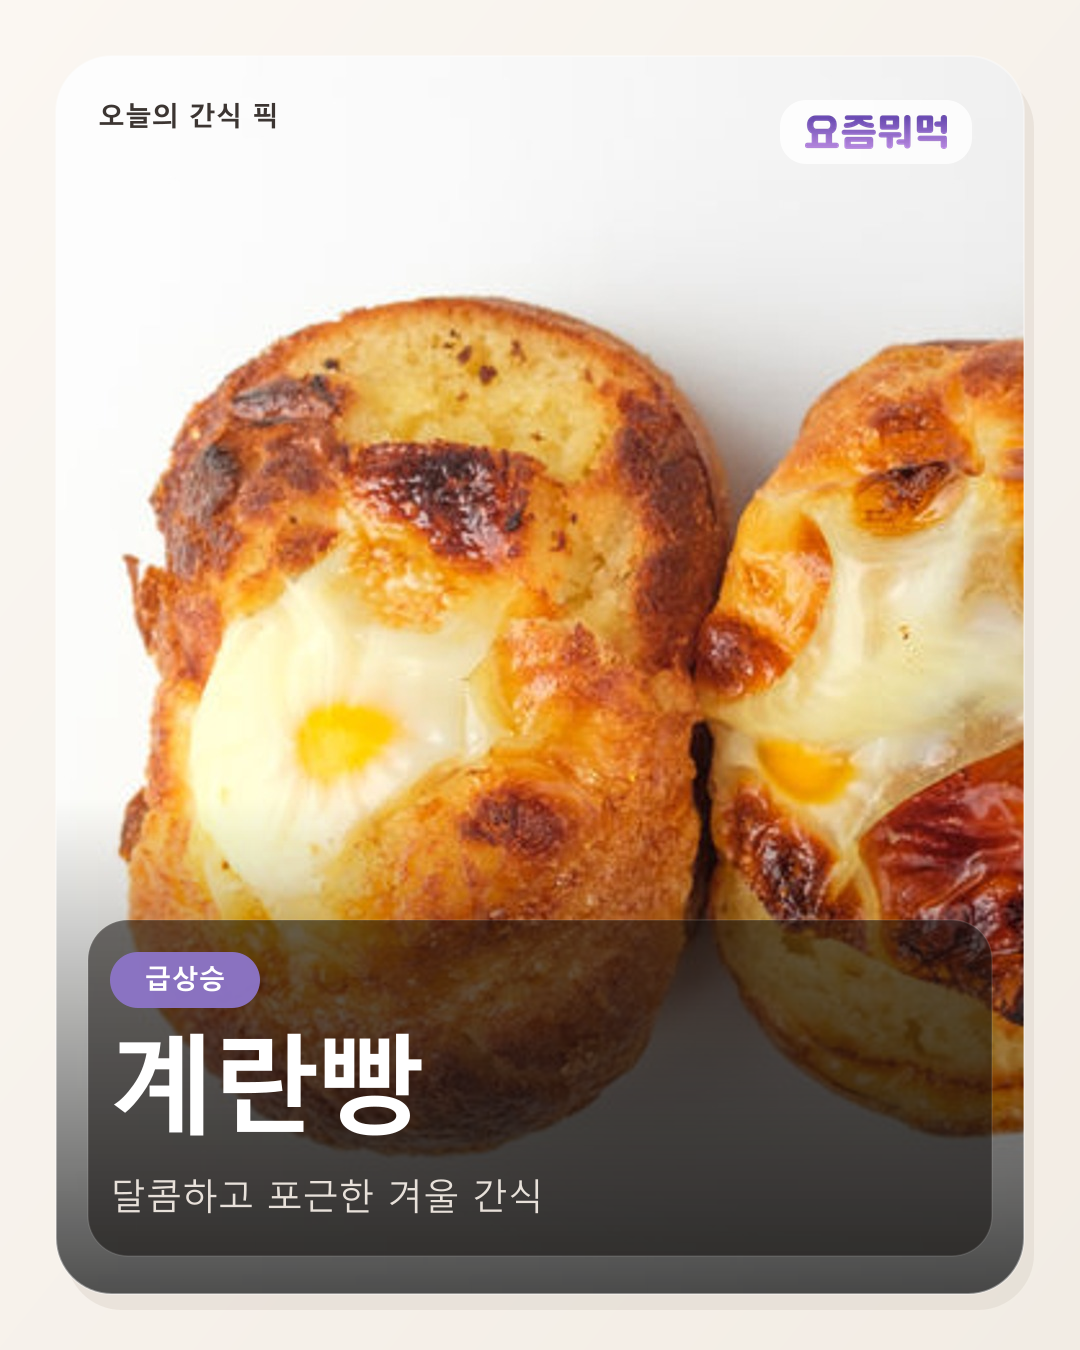
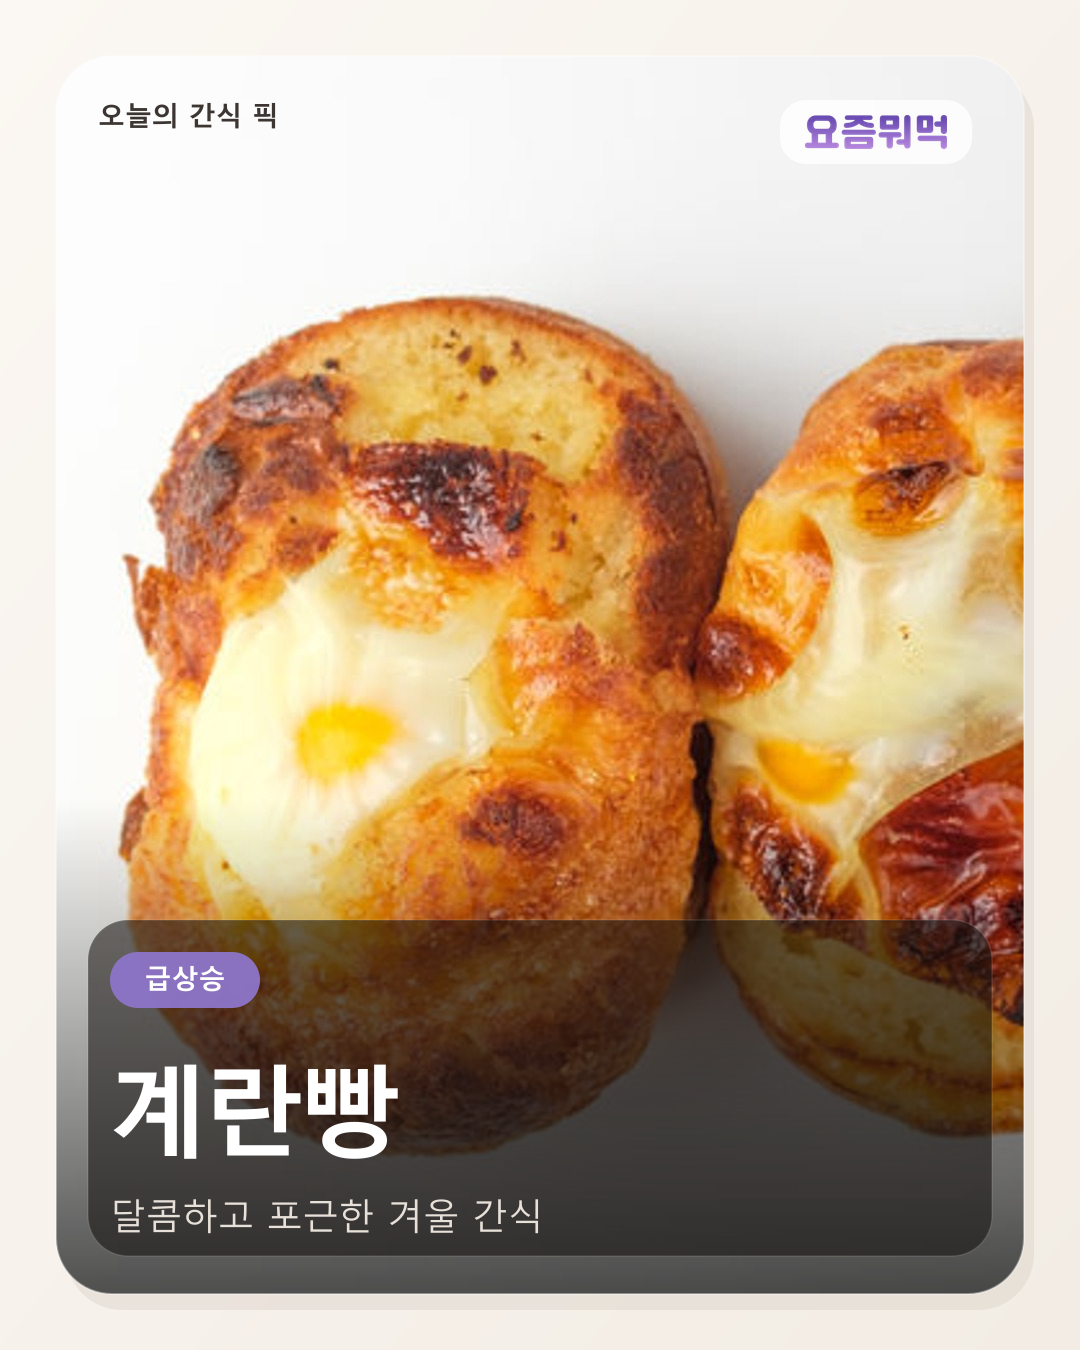
인스타 피드 이미지 검수와 카드 레이아웃 조정

Changed region(s): [[0.0917, 0.7467, 0.4889, 0.9333]]

diff --git a/crawler/ai_reviewer.py b/crawler/ai_reviewer.py
@@ -51,6 +51,16 @@ class TrendReviewResult:
     model: str | None = None
 
 
+@dataclass(slots=True)
+class InstagramImageReviewResult:
+    verdict: str
+    confidence: float
+    reason: str
+    detected_subject: str | None = None
+    concerns: list[str] | None = None
+    model: str | None = None
+
+
 def is_ai_review_enabled() -> bool:
     return bool(
         settings.AI_REVIEW_ENABLED
@@ -143,6 +153,29 @@ def _extract_message_content(data: dict[str, Any]) -> str:
     return str(content)
 
 
+def _normalize_short_text(value: Any, max_length: int = 160) -> str | None:
+    text = " ".join(str(value or "").split())
+    if not text:
+        return None
+    if len(text) > max_length:
+        text = f"{text[: max_length - 3].rstrip()}..."
+    return text
+
+
+def _normalize_concerns(value: Any) -> list[str]:
+    if not isinstance(value, list):
+        return []
+
+    concerns: list[str] = []
+    for item in value:
+        text = _normalize_short_text(item, max_length=80)
+        if text:
+            concerns.append(text)
+        if len(concerns) >= 4:
+            break
+    return concerns
+
+
 def _coerce_result(
     raw: dict[str, Any],
     *,
@@ -176,10 +209,10 @@ def _coerce_result(
     )
 
 
-async def _request_batch_review(
+async def _request_json_review(
     *,
-    system_prompt: str,
-    payload: dict[str, Any],
+    messages: list[dict[str, Any]],
+    max_tokens: int = 1200,
 ) -> dict[str, Any] | list[dict[str, Any]]:
     if not is_ai_review_enabled():
         raise AIReviewError("AI review is disabled or missing credentials")
@@ -187,14 +220,8 @@ async def _request_batch_review(
     body = {
         "model": settings.AI_REVIEW_MODEL,
         "temperature": 0.1,
-        "max_tokens": 1200,
-        "messages": [
-            {"role": "system", "content": system_prompt},
-            {
-                "role": "user",
-                "content": json.dumps(payload, ensure_ascii=False),
-            },
-        ],
+        "max_tokens": max_tokens,
+        "messages": messages,
     }
 
     try:
@@ -213,6 +240,22 @@ async def _request_batch_review(
         raise AIReviewError(f"AI review request failed: {exc}") from exc
 
     return _extract_json_blob(_extract_message_content(response.json()))
+
+
+async def _request_batch_review(
+    *,
+    system_prompt: str,
+    payload: dict[str, Any],
+) -> dict[str, Any] | list[dict[str, Any]]:
+    return await _request_json_review(
+        messages=[
+            {"role": "system", "content": system_prompt},
+            {
+                "role": "user",
+                "content": json.dumps(payload, ensure_ascii=False),
+            },
+        ],
+    )
 
 
 def _extract_results(raw: dict[str, Any] | list[dict[str, Any]]) -> list[dict[str, Any]]:
@@ -330,3 +373,94 @@ async def review_discovered_keywords(
     result_map = _coerce_result_map(raw, payloads=payloads)
     logger.info("AI discovery batch reviewed %s candidates", len(payloads))
     return result_map
+
+
+def _coerce_instagram_image_result(
+    raw: dict[str, Any] | list[dict[str, Any]],
+) -> InstagramImageReviewResult:
+    if isinstance(raw, list):
+        raise AIReviewError("Instagram image review must return a JSON object")
+
+    payload = raw.get("result") if isinstance(raw.get("result"), dict) else raw
+
+    try:
+        confidence = float(payload.get("confidence", 0))
+    except (TypeError, ValueError):
+        confidence = 0.0
+    confidence = max(0.0, min(confidence, 1.0))
+
+    reason = _normalize_short_text(payload.get("reason"), max_length=200) or "reason missing"
+
+    return InstagramImageReviewResult(
+        verdict=_normalize_verdict(payload.get("verdict")),
+        confidence=confidence,
+        reason=reason,
+        detected_subject=_normalize_short_text(
+            payload.get("detected_subject"),
+            max_length=120,
+        ),
+        concerns=_normalize_concerns(payload.get("concerns")),
+        model=settings.AI_REVIEW_MODEL,
+    )
+
+
+async def review_instagram_post_image(
+    *,
+    image_url: str,
+    trend_name: str,
+    category: str | None = None,
+    caption: str | None = None,
+) -> InstagramImageReviewResult:
+    if not image_url.strip():
+        raise AIReviewError("Instagram image review requires a public image URL")
+
+    system_prompt = (
+        "You are reviewing a single Instagram feed image for a Korean viral food trend service. "
+        "Approve only if the image is suitable for publishing as a food trend post about the named menu. "
+        "The main subject should clearly show the food or drink itself, a plated serving, packaged product, "
+        "or another close and trustworthy visual of that exact menu. "
+        "Reject storefront exteriors, street scenes, unrelated interiors, people-focused photos, posters, "
+        "menu boards, screenshots, collages, heavy watermarks, blurry images, or images where the named food "
+        "is not visible enough. Use review when the image might be related but is too ambiguous for automatic posting. "
+        "Be strict and prefer review over accept when uncertain. "
+        "Respond with JSON only using the shape "
+        '{"verdict":"accept|reject|review","confidence":0.0,"reason":"...","detected_subject":"...","concerns":["..."]}.'
+    )
+
+    review_context = {
+        "trend_name": trend_name,
+        "category": category or "",
+        "caption": caption or "",
+    }
+    raw = await _request_json_review(
+        messages=[
+            {"role": "system", "content": system_prompt},
+            {
+                "role": "user",
+                "content": [
+                    {
+                        "type": "text",
+                        "text": (
+                            "Review this Instagram feed image before auto-publishing.\n"
+                            f"{json.dumps(review_context, ensure_ascii=False)}"
+                        ),
+                    },
+                    {
+                        "type": "image_url",
+                        "image_url": {
+                            "url": image_url,
+                        },
+                    },
+                ],
+            },
+        ],
+        max_tokens=400,
+    )
+    result = _coerce_instagram_image_result(raw)
+    logger.info(
+        "AI Instagram image reviewed %s as %s (confidence=%.2f)",
+        trend_name,
+        result.verdict,
+        result.confidence,
+    )
+    return result

diff --git a/crawler/instagram_publisher.py b/crawler/instagram_publisher.py
@@ -13,6 +13,11 @@ from zoneinfo import ZoneInfo
 
 import httpx
 
+from ai_reviewer import (
+    InstagramImageReviewResult,
+    is_ai_review_enabled,
+    review_instagram_post_image,
+)
 from config import settings
 from database import (
     create_instagram_feed_run,
@@ -99,6 +104,43 @@ def _build_render_subtitle(trend: dict[str, Any]) -> str:
 
 def _build_badge_label(status: str | None) -> str:
     return "인기" if status == "active" else "급상승"
+
+
+def _is_instagram_image_review_accepted(review: InstagramImageReviewResult) -> bool:
+    return (
+        review.verdict == "accept"
+        and review.confidence >= settings.INSTAGRAM_IMAGE_REVIEW_MIN_CONFIDENCE
+    )
+
+
+def _build_instagram_image_review_message(review: InstagramImageReviewResult) -> str:
+    parts = [
+        f"ai_image_review={review.verdict}",
+        f"confidence={review.confidence:.2f}",
+    ]
+    if review.detected_subject:
+        parts.append(f"subject={review.detected_subject}")
+    if review.reason:
+        parts.append(f"reason={review.reason}")
+    if review.concerns:
+        parts.append(f"concerns={', '.join(review.concerns)}")
+    return " | ".join(parts)
+
+
+def _serialize_image_review(
+    review: InstagramImageReviewResult | None,
+) -> dict[str, Any] | None:
+    if review is None:
+        return None
+
+    return {
+        "verdict": review.verdict,
+        "confidence": review.confidence,
+        "reason": review.reason,
+        "detected_subject": review.detected_subject,
+        "concerns": review.concerns or [],
+        "model": review.model,
+    }
 
 
 def _serialize_candidate(row: dict[str, Any]) -> dict[str, Any]:
@@ -327,6 +369,10 @@ def _ensure_instagram_ready() -> None:
         raise RuntimeError("INSTAGRAM_IG_USER_ID is required")
     if not settings.INSTAGRAM_ACCESS_TOKEN.strip():
         raise RuntimeError("INSTAGRAM_ACCESS_TOKEN is required")
+    if settings.INSTAGRAM_IMAGE_REVIEW_ENABLED and not is_ai_review_enabled():
+        raise RuntimeError(
+            "INSTAGRAM_IMAGE_REVIEW_ENABLED requires AI review credentials and model"
+        )
 
 
 async def publish_daily_instagram_feed(
@@ -347,6 +393,7 @@ async def publish_daily_instagram_feed(
             "candidate_count": len(candidates),
             "selected_scope": candidates[0]["status"] if candidates else None,
             "candidates": candidate_preview,
+            "image_review_enabled": settings.INSTAGRAM_IMAGE_REVIEW_ENABLED,
             "trigger": trigger,
         }
 
@@ -395,6 +442,7 @@ async def publish_daily_instagram_feed(
         errors: list[str] = []
         for candidate in candidates:
             caption = _build_caption(candidate)
+            image_review: InstagramImageReviewResult | None = None
             update_instagram_feed_run(
                 run_row["id"],
                 {
@@ -418,6 +466,29 @@ async def publish_daily_instagram_feed(
                     run_date,
                     candidate["name"],
                 )
+                if settings.INSTAGRAM_IMAGE_REVIEW_ENABLED:
+                    image_review = await review_instagram_post_image(
+                        image_url=final_image_url,
+                        trend_name=candidate["name"],
+                        category=candidate.get("category"),
+                        caption=caption,
+                    )
+                    if not _is_instagram_image_review_accepted(image_review):
+                        review_message = _build_instagram_image_review_message(image_review)
+                        logger.info(
+                            "Instagram image review blocked %s: %s",
+                            candidate.get("name"),
+                            review_message,
+                        )
+                        update_instagram_feed_run(
+                            run_row["id"],
+                            {
+                                "skip_reason": "ai_image_review_rejected",
+                                "error_message": review_message,
+                            },
+                        )
+                        errors.append(f"{candidate.get('name')}: {review_message}")
+                        continue
                 creation_id = await _create_media_container(final_image_url, caption)
                 await _wait_for_container_ready(creation_id)
                 media_id = await _publish_media_container(creation_id)
@@ -447,6 +518,8 @@ async def publish_daily_instagram_feed(
                     "final_image_url": final_image_url,
                     "instagram_creation_id": creation_id,
                     "instagram_media_id": media_id,
+                    "image_review": _serialize_image_review(image_review),
+                    "image_review_enabled": settings.INSTAGRAM_IMAGE_REVIEW_ENABLED,
                     "used_fallback_image": bool(render_metadata.get("usedFallback")),
                     "run": run_row,
                 }

diff --git a/crawler/config.py b/crawler/config.py
@@ -190,6 +190,16 @@ class Settings:
     AI_REVIEW_MIN_CONFIDENCE: float = float(
         os.getenv("AI_REVIEW_MIN_CONFIDENCE", "0.7")
     )
+    INSTAGRAM_IMAGE_REVIEW_ENABLED: bool = _env_bool(
+        "INSTAGRAM_IMAGE_REVIEW_ENABLED",
+        default=False,
+    )
+    INSTAGRAM_IMAGE_REVIEW_MIN_CONFIDENCE: float = float(
+        os.getenv(
+            "INSTAGRAM_IMAGE_REVIEW_MIN_CONFIDENCE",
+            os.getenv("AI_REVIEW_MIN_CONFIDENCE", "0.7"),
+        )
+    )
     AI_REVIEW_MAX_EVIDENCE_SNIPPETS: int = int(
         os.getenv("AI_REVIEW_MAX_EVIDENCE_SNIPPETS", "4")
     )
